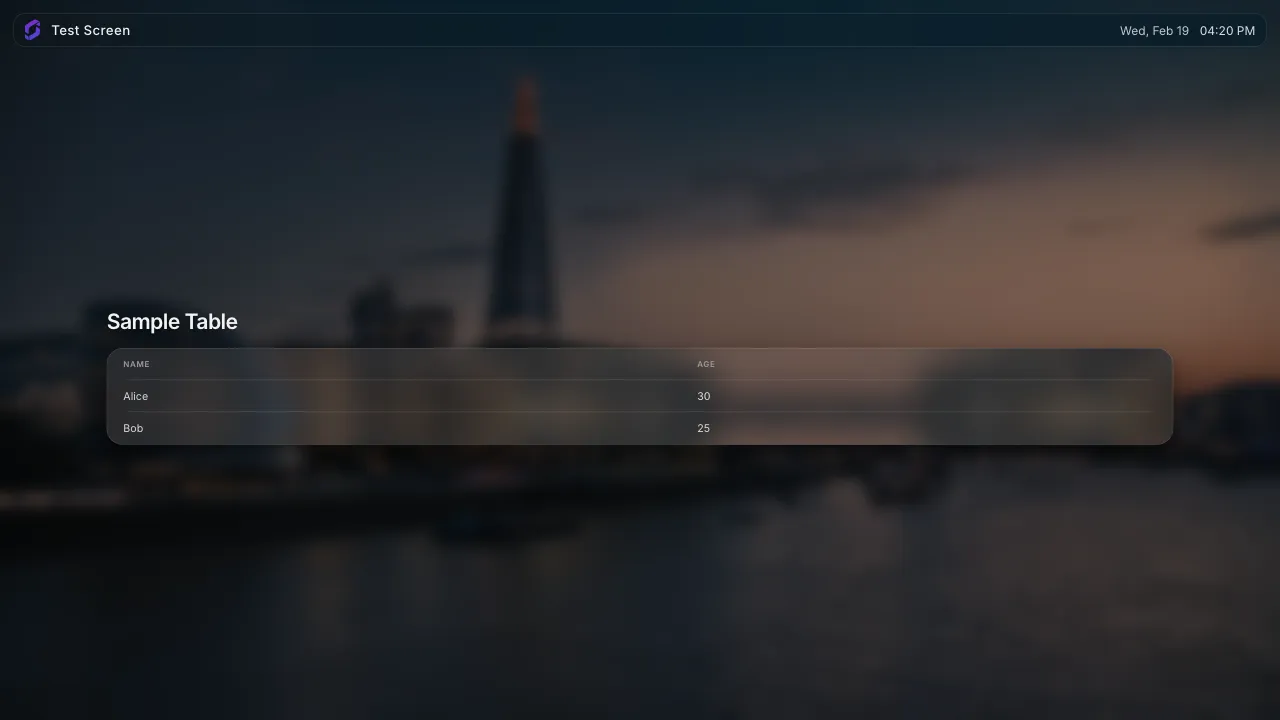
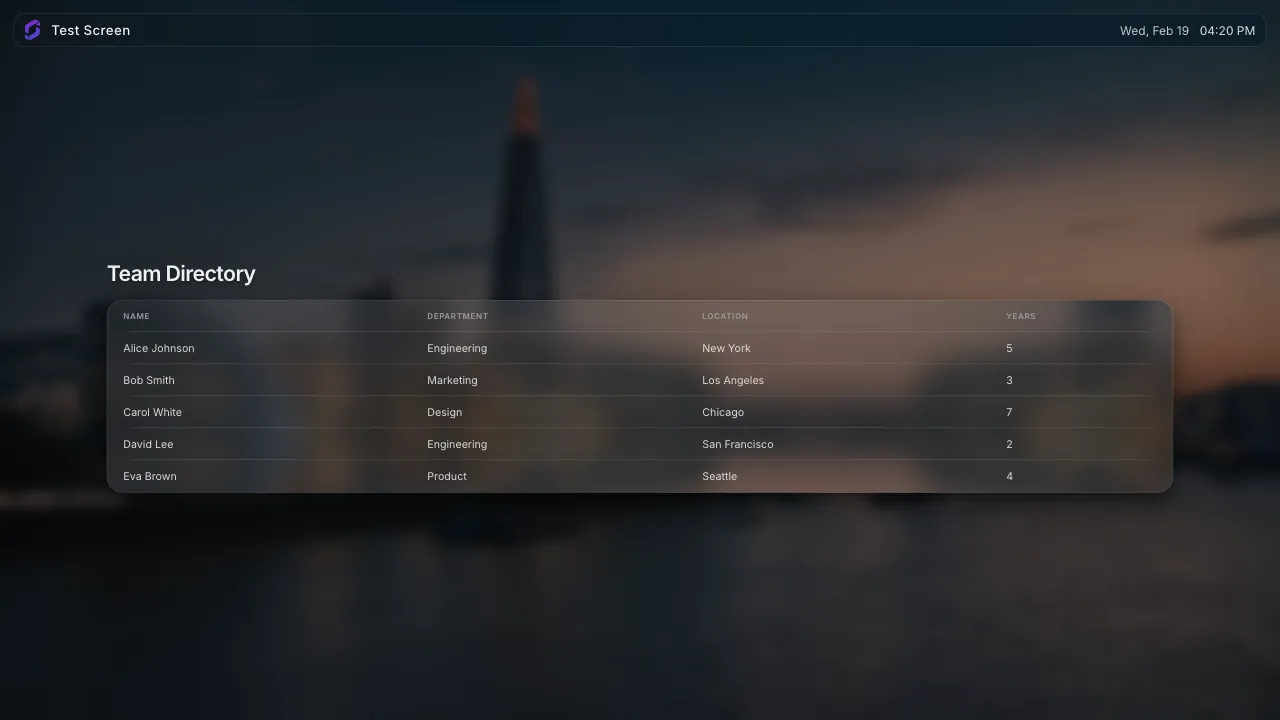
test(simple-table-app): expand screenshot mock data
- Use more rows and columns to better exercise the table renderer
- Update title to "Team Directory" to match the mock content

diff --git a/edge-apps/simple-table-app/e2e/screenshots.spec.ts b/edge-apps/simple-table-app/e2e/screenshots.spec.ts
@@ -11,9 +11,10 @@ import path from 'path'
 const { screenlyJsContent } = createMockScreenlyForScreenshots(
   { coordinates: [40.7128, -74.006], location: 'New York, NY' },
   {
-    content: 'Name,Age\nAlice,30\nBob,25',
+    content:
+      'Name,Department,Location,Years\nAlice Johnson,Engineering,New York,5\nBob Smith,Marketing,Los Angeles,3\nCarol White,Design,Chicago,7\nDavid Lee,Engineering,San Francisco,2\nEva Brown,Product,Seattle,4',
     override_timezone: 'America/New_York',
-    title: 'Sample Table',
+    title: 'Team Directory',
   },
 )
 
